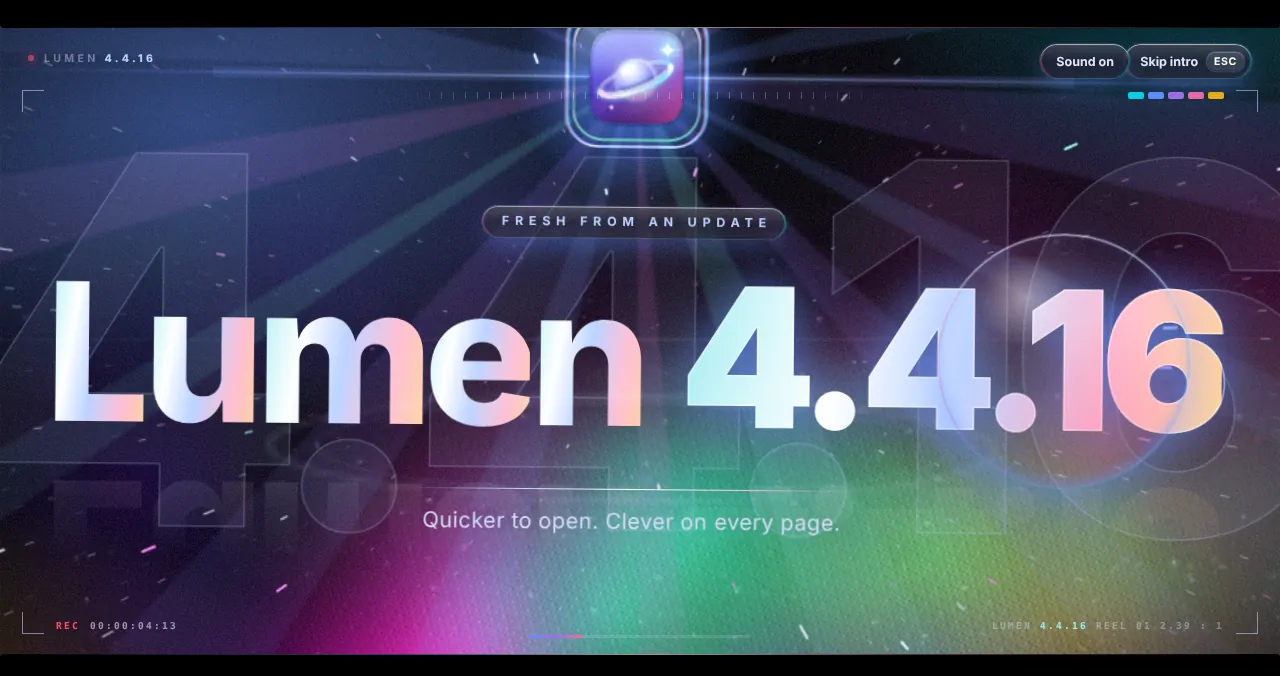
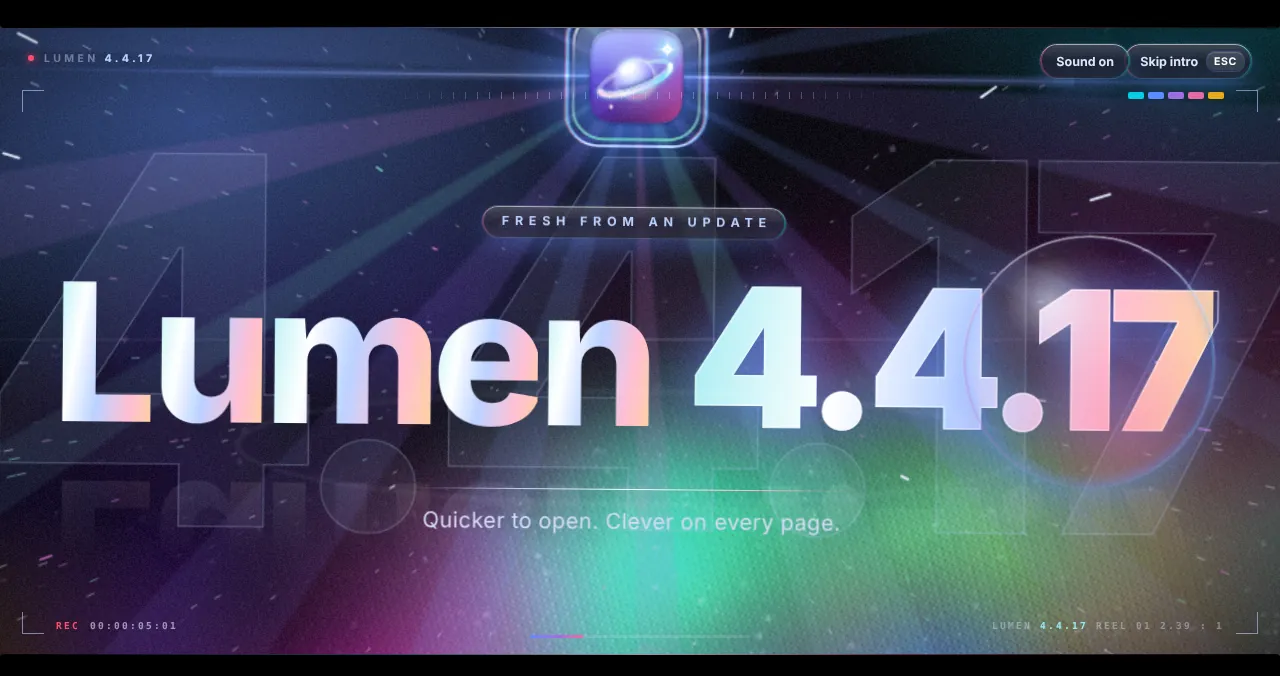
Site for Lumen 4.4.17: every screenshot re-taken from 4.4.17
Claude-Session: https://claude.ai/code/session_016io9pVZ6dJ8VMHbPwqrPds

diff --git a/index.html b/index.html
@@ -368,7 +368,7 @@ footer a:hover{color:#fff}
 <body>
 <header class="nav">
   <div class="wrap bar">
-    <a class="brand" href="#top"><img src="icon.webp" alt="" width="30" height="30">Lumen <small>4.4.16</small></a>
+    <a class="brand" href="#top"><img src="icon.webp" alt="" width="30" height="30">Lumen <small>4.4.17</small></a>
     <nav class="links" aria-label="Sections">
       <a class="h" href="#new">What's new</a>
       <a class="h" href="#speed">Speed</a>
@@ -430,7 +430,7 @@ footer a:hover{color:#fff}
     <div class="head c">
       <span class="eyebrow">What's new in 4.4</span>
       <h2>Watch Claude <span class="gt">work.</span></h2>
-      <p>Lumen 4.4 shows you every move Claude makes in a tab: its own glowing cursor, a label for what it is doing and a soft edge of light until it is done. 4.4.1 starts you off with one-tap tasks that fit the page, and 4.4.2 runs any finished task again with one tap. 4.4.3 makes passkeys tell you exactly what is going on, with your password or Safari one tap away. And from 4.4.4, every update plays its own short film again. 4.4.5 flips between Ask and Do it for me with Option Command A, 4.4.6 saves your Shopify orders to Parcels with the right carrier, 4.4.7 makes every page title fit its banner, 4.4.8 tracks a parcel straight from any carrier link, 4.4.9 takes you to the parcel when there is news, 4.4.10 makes that parcel glow all the way round, 4.4.11 copies clean links, with redirects unwrapped and trackers removed, 4.4.12 copies the page with its title as a clickable link, 4.4.13 makes the update card title fit every version in full, 4.4.14 undoes a bulk tab close in one tap, 4.4.15 brings back a window you closed by mistake, and 4.4.16 lists everything you closed in History, Recently Closed. Claude in Lumen arrived in 4.3, and since 4.2 nothing lags.</p>
+      <p>Lumen 4.4 shows you every move Claude makes in a tab: its own glowing cursor, a label for what it is doing and a soft edge of light until it is done. 4.4.1 starts you off with one-tap tasks that fit the page, and 4.4.2 runs any finished task again with one tap. 4.4.3 makes passkeys tell you exactly what is going on, with your password or Safari one tap away. And from 4.4.4, every update plays its own short film again. 4.4.5 flips between Ask and Do it for me with Option Command A, 4.4.6 saves your Shopify orders to Parcels with the right carrier, 4.4.7 makes every page title fit its banner, 4.4.8 tracks a parcel straight from any carrier link, 4.4.9 takes you to the parcel when there is news, 4.4.10 makes that parcel glow all the way round, 4.4.11 copies clean links, with redirects unwrapped and trackers removed, 4.4.12 copies the page with its title as a clickable link, 4.4.13 makes the update card title fit every version in full, 4.4.14 undoes a bulk tab close in one tap, 4.4.15 brings back a window you closed by mistake, 4.4.16 lists everything you closed in History, Recently Closed, and 4.4.17 keeps that list across a restart. Claude in Lumen arrived in 4.3, and since 4.2 nothing lags.</p>
     </div>
     <figure class="glass mid"><img src="shots/parcels.webp" alt="The Parcels page with three parcels on the way: two orders saved from online shops, each with a Shop tag, the store name and its order number, and a progress line from Placed to Delivered" width="1264" height="590"><figcaption>New in 4.4.6: Shop orders in Parcels</figcaption></figure>
     <figure class="glass mid"><img src="shots/parcel-link.webp" alt="The Track a parcel dialog after a UPS tracking link was pasted into the number box: the tracking number is filled in, the carrier is set to UPS, the link sits in the link field and a green note says Got it from the link: UPS" width="1264" height="700"><figcaption>New in 4.4.8: paste a tracking link</figcaption></figure>
@@ -628,8 +628,8 @@ footer a:hover{color:#fff}
         <ul class="tags"><li>Trailer-style intro</li><li>New update card</li><li>New restart screen</li></ul>
       </div>
       <div class="overlap">
-        <figure class="glass back"><img src="shots/intro.webp" alt="The Lumen 4.4.16 intro, fresh from an update" width="1280" height="676"></figure>
-        <figure class="glass front sm"><img src="shots/updatecard.webp" alt="The update card downloading Lumen 4.4.16, with what is new in it" width="600" height="402"></figure>
+        <figure class="glass back"><img src="shots/intro.webp" alt="The Lumen 4.4.17 intro, fresh from an update" width="1280" height="676"></figure>
+        <figure class="glass front sm"><img src="shots/updatecard.webp" alt="The update card downloading Lumen 4.4.17, with what is new in it" width="600" height="402"></figure>
       </div>
     </div>
   </div>
@@ -1080,7 +1080,7 @@ footer a:hover{color:#fff}
 
 <footer>
   <div class="wrap">
-    <a class="brand" href="#top"><img src="icon.webp" alt="" width="24" height="24">Lumen 4.4.16</a>
+    <a class="brand" href="#top"><img src="icon.webp" alt="" width="24" height="24">Lumen 4.4.17</a>
     <nav aria-label="Footer">
       <a href="#new">What's new</a>
       <a href="#surge">Surge</a>
